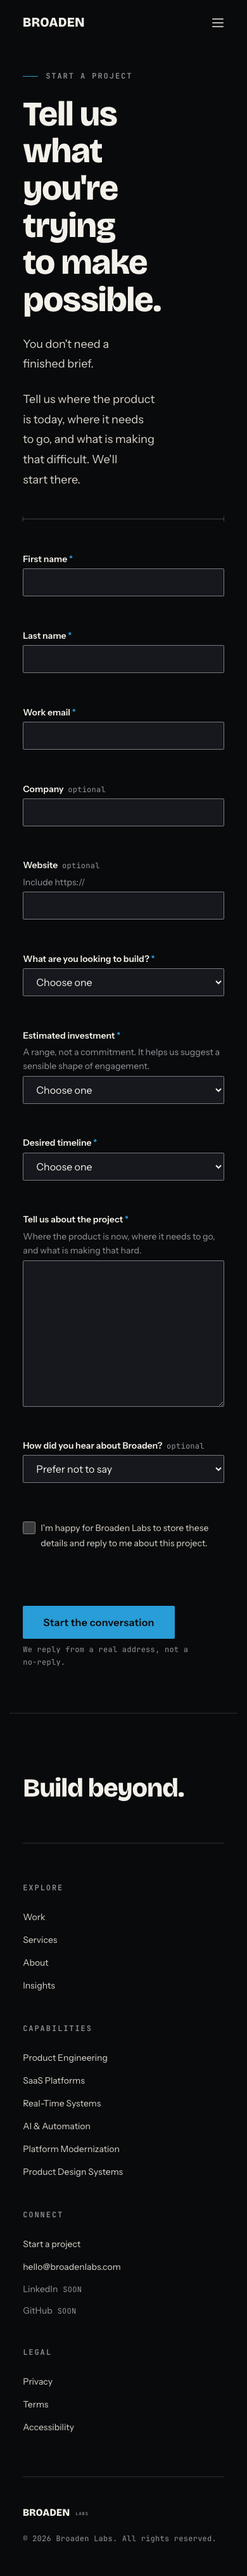
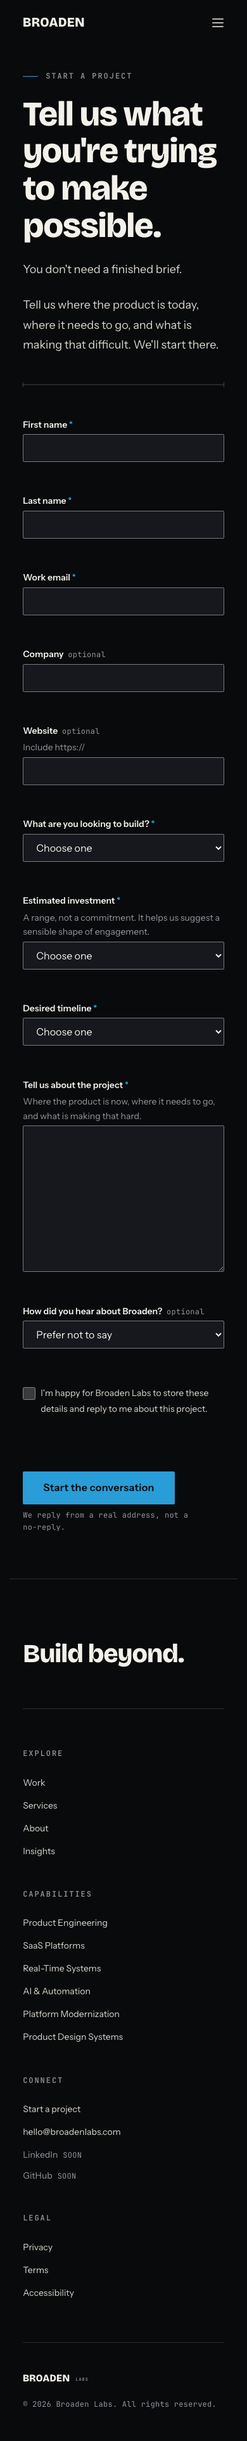
fix(css): stop the named grid spans collapsing to one track below 768px
The mobile layout was broken on every route that uses the editorial grid, and
the responsive suite could not see it.

grid.css declared `.span-5-7`, `.span-7-5`, `.span-4-8`, `.span-8-4`,
`.span-offset`, `.span-half` and `.span-third` ONLY inside the 48rem and 64rem
media queries. Below 768px they had no `grid-column` at all, so they fell
through to auto-placement in the 4-column mobile grid — one track each.

Measured at a 390px viewport before the fix:

  .span-full   grid-column: 1 / -1        348px   correct
  .span-7-5    grid-column: auto / auto    71px   <-- one track
  .span-5-7    grid-column: auto / auto    71px
  .span-8-4    grid-column: auto / auto    71px
  .span-4-8    grid-column: auto / auto    71px

Thirteen such elements on the homepage alone. Body copy wrapped at roughly two
words per line and the page ran 18,118px tall.

The file's own comment already described the intended behaviour — "Each
collapses to full width on mobile, because a 5-of-12 column at 320px is 100px
wide and unreadable" — but only `.span-full` carried the rule that implements
it. The fix gives every named span that mobile base.

After: 280px at 320, 348px at 390, 371px at 414, and the 8- and 12-column
patterns still assert themselves unchanged at 768 and 1024.

WHY THE SUITE MISSED IT, and what now catches it.

responsive.e2e.ts asserted only that no route scrolls horizontally. That is
structurally blind to this: a column that is far too NARROW never widens the
[…]

diff --git a/src/routes/responsive.e2e.ts b/src/routes/responsive.e2e.ts
@@ -107,6 +107,51 @@ test.describe('responsive layout', () => {
 					`${route} at ${width}px overflows by ${scrollWidth - clientWidth}px` +
 						(offenders.length ? `\n  ${offenders.join('\n  ')}` : '')
 				).toBeLessThanOrEqual(clientWidth + 1);
+
+				/**
+				 * The other half of the problem, and the half that shipped.
+				 *
+				 * Overflow catches content that is too WIDE. It is structurally blind
+				 * to content that is too NARROW, because a squeezed column never
+				 * widens the document — so all 468 renders above passed while the
+				 * named grid spans were collapsing to a single 4-column track: 71px
+				 * wide at a 390px viewport, body copy wrapping at two words per line,
+				 * 13 such elements on the homepage, and the page running 18,118px
+				 * tall. `grid.css` declared those spans only inside the 48rem and
+				 * 64rem queries, so below 768px they fell through to auto-placement.
+				 *
+				 * Below the 48rem breakpoint the design system's own rule is that
+				 * every named span is full width, so anything materially narrower
+				 * than its container is the bug rather than a judgement call. The
+				 * threshold is 80% of the content box: generous enough that padding
+				 * and borders never trip it, tight enough that a single track of a
+				 * 4-column grid (25%) cannot hide.
+				 */
+				if (width < 768) {
+					const narrow = await page.evaluate(() => {
+						const found: string[] = [];
+						for (const el of document.querySelectorAll('[class*="span-"]')) {
+							const parent = el.parentElement;
+							if (!parent) continue;
+							const own = el.getBoundingClientRect().width;
+							const avail = parent.getBoundingClientRect().width;
+							if (avail === 0 || own === 0) continue;
+							if (own < avail * 0.8) {
+								const cls =
+									typeof el.className === 'string' ? el.className.split(/\s+/)[0] : '(unknown)';
+								found.push(
+									`${el.tagName.toLowerCase()}.${cls} is ${Math.round(own)}px of ${Math.round(avail)}px available (${Math.round((own / avail) * 100)}%)`
+								);
+							}
+						}
+						return found;
+					});
+
+					expect(
+						narrow,
+						`${route} at ${width}px has named grid spans collapsed below full width:\n  ${narrow.join('\n  ')}`
+					).toEqual([]);
+				}
 			}
 		});
 	}

diff --git a/src/lib/styles/grid.css b/src/lib/styles/grid.css
@@ -57,8 +57,28 @@
 	 * Each collapses to full width on mobile, because a 5-of-12 column at 320px
 	 * is 100px wide and unreadable. The pattern only asserts itself once there
 	 * are enough columns for it to mean something.
+	 *
+	 * THE MOBILE RULE BELOW IS LOAD-BEARING, and its absence was a real defect.
+	 * The paragraph above described the intent, but only `.span-full` carried a
+	 * `grid-column`; every other name was declared solely inside the 48rem and
+	 * 64rem queries. Under those breakpoints they fell through to auto-placement
+	 * in the 4-column mobile grid — one track, measured at 71px wide on a 390px
+	 * viewport, with 13 such elements on the homepage alone. Body copy wrapped at
+	 * roughly two words per line and the page ran 18,118px tall.
+	 *
+	 * It is invisible to an overflow check by construction: a column that is far
+	 * too NARROW never widens the document, so `responsive.e2e.ts` passed all 468
+	 * renders while the page was unreadable. `responsive.e2e.ts` now also asserts
+	 * a minimum content width, which is what actually catches this class of bug.
 	 */
-	.span-full {
+	.span-full,
+	.span-5-7,
+	.span-7-5,
+	.span-4-8,
+	.span-8-4,
+	.span-offset,
+	.span-half,
+	.span-third {
 		grid-column: 1 / -1;
 	}
 
